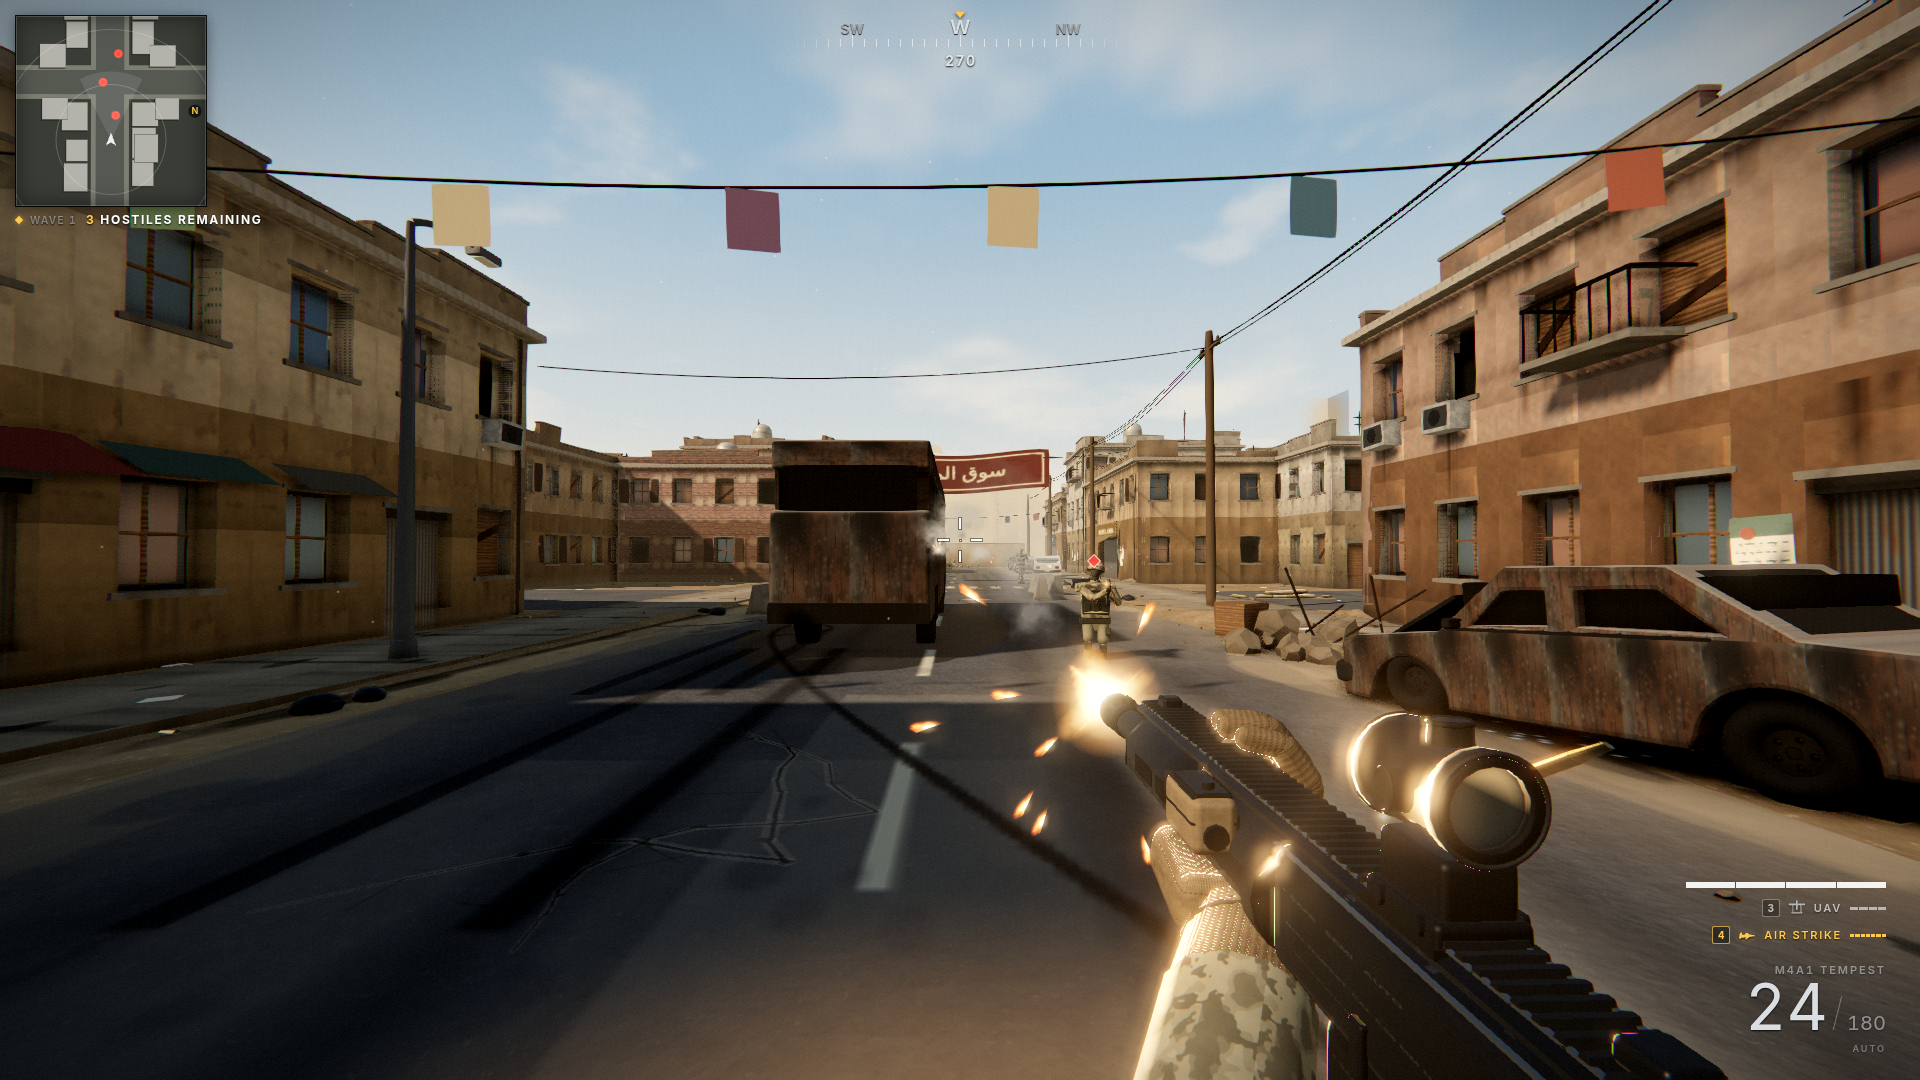
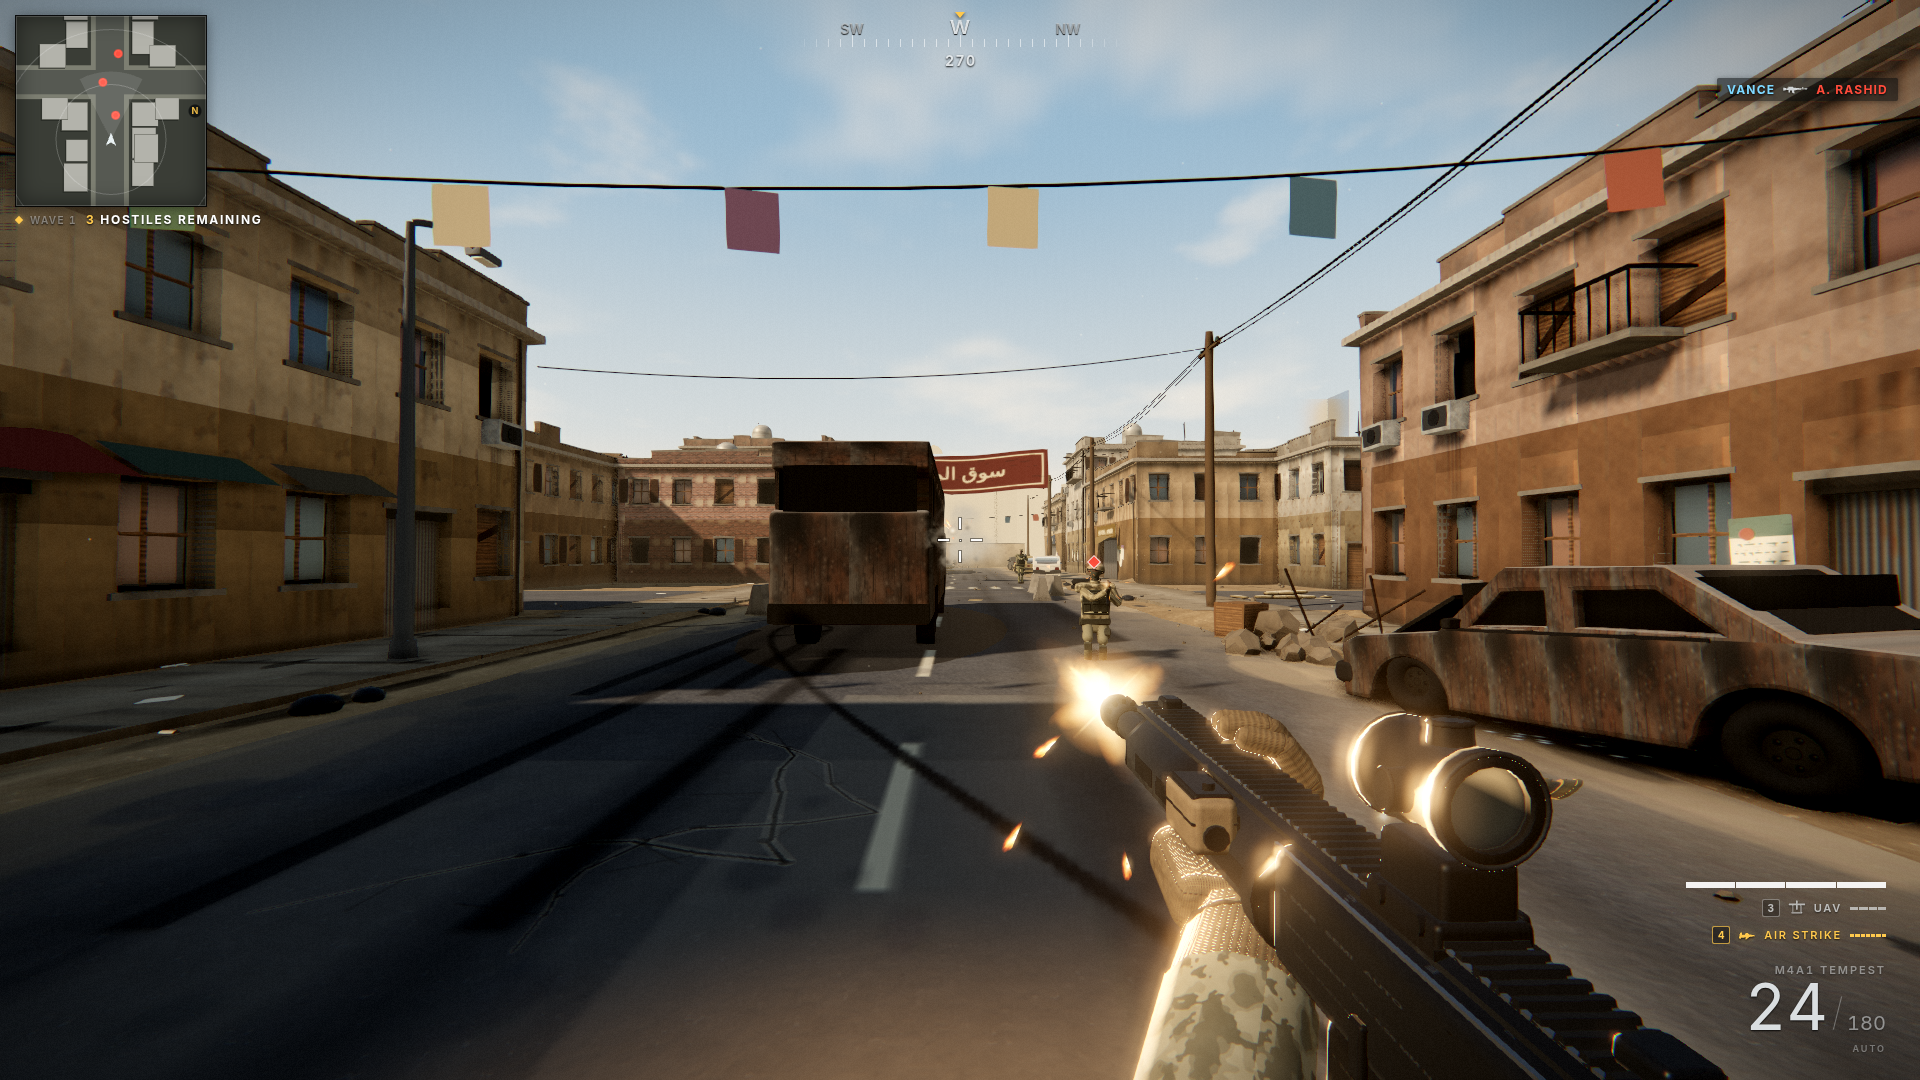
Photo staging: enemies trio on the sunlit south lane, closer camera

diff --git a/src/photo/photomode.js b/src/photo/photomode.js
@@ -104,17 +104,18 @@ const SCENARIOS = {
     };
   },
 
-  /* Soldier close-up for character review (sun on their faces). The macro
-     shadow mass covers the south half of the road, so the trio is staged
-     north of z~2.5 to stay in the lit value group. */
+  /* Soldier close-up for character review (sun on their faces). The ENE sun
+     throws the north row's shadow across the centre/north road, so the trio
+     stands on the LIT south lane, faces east into the light, camera looking
+     west from the road centre. */
   enemies: (g) => {
     g.deployForPhoto();
-    g.player.spawnAt(new THREE.Vector3(31, 0, 3.4), Math.PI / 2 + 0.06);
+    g.player.spawnAt(new THREE.Vector3(22.8, 0, -2.6), Math.PI / 2 + 0.04);
     g.player.pitch = 0.01;
     g.enemies.frozen = true;
-    const a = g.enemies.spawnOne(new THREE.Vector3(24.2, 0, 6), 0);
-    const b = g.enemies.spawnOne(new THREE.Vector3(22.6, 0, 4.6), 1);
-    const c = g.enemies.spawnOne(new THREE.Vector3(25, 0, 2.8), 2);
+    const a = g.enemies.spawnOne(new THREE.Vector3(17.4, 0, -1.6), 0);
+    const b = g.enemies.spawnOne(new THREE.Vector3(16, 0, -2.8), 1);
+    const c = g.enemies.spawnOne(new THREE.Vector3(18.6, 0, -4), 2);
     a.enterCombat(); b.enterCombat(); c.enterCombat();
     // Pin poses for a stable review shot: two standing bladed, one kneeling.
     a.crouchTarget = 0; a.duckT = 99;
